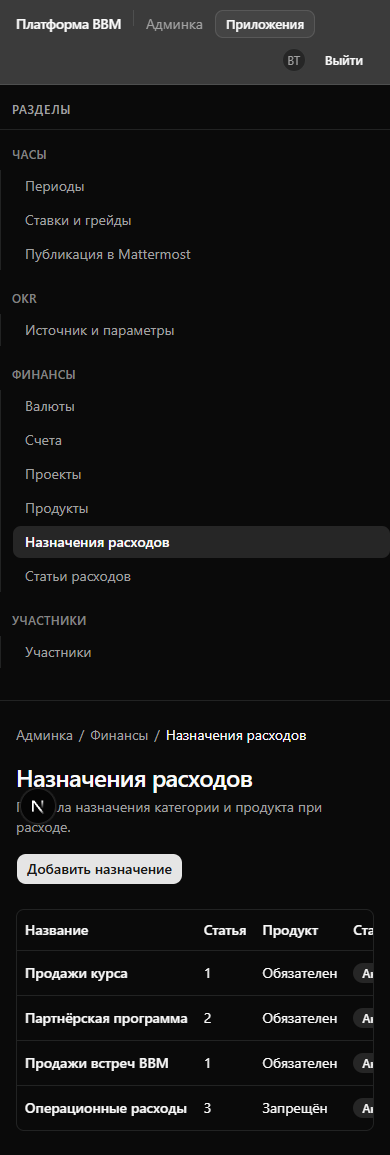
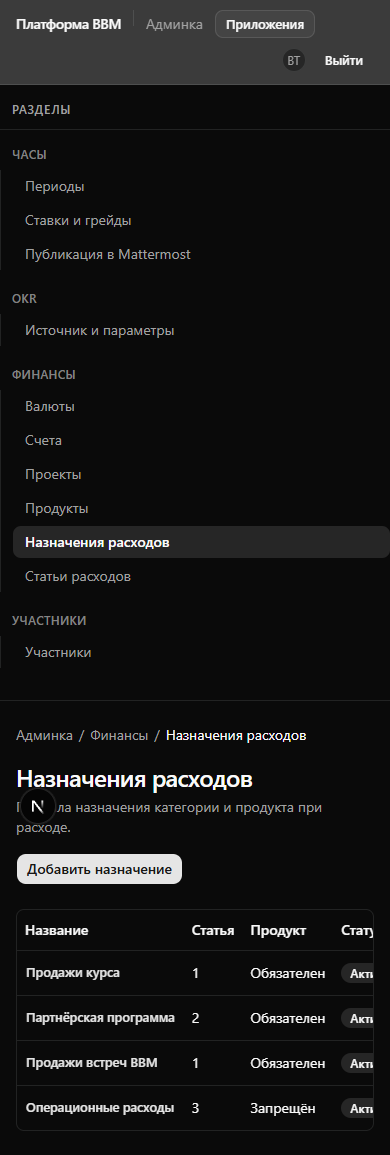
docs(evidence): #479 re-take the register and card frames at wave head baf2c5cf
dd29e1df gives each reference row one entry point — its name as a link button —
so the register frames (02), the card frames (03/04) and the CTA pseudo-state
frames (07, which are viewport frames of the register) are re-taken in place.
A new step 08 captures the row name link's three forced states, since it is now
the only way into a record. The README records one honest qualification: at rest
the name reads as a link by weight and cursor alone, and underlines only on
hover and focus-visible.

Claude-Session: https://claude.ai/code/session_0135iGP5tT2kkPaiEPUVqe6e

Changed region(s): [[0.0615, 0.8416, 0.4923, 0.9662], [0.6462, 0.7792, 0.9538, 0.9662], [0.4923, 0.7792, 0.8, 0.8104]]

diff --git a/docs/evidence/479/README.md b/docs/evidence/479/README.md
@@ -25,7 +25,7 @@ three CDP-forced pseudo-states (`CSS.forcePseudoState`, one session per state).
 | 01   | `/p/admin` as `bbm-test` — the index and the sidebar list only the sections this viewer may enter (Часы, OKR, Финансы, Участники)               |
 | 02   | `/p/admin/finance/purposes` as `bbm-test` — the reference register with its per-row «Открыть / Изменить / В архив / Удалить»                    |
 | 03   | the edit card of «Продажи курса», open — name, expense category, product binding, «Изменения фиксируются с автором и временем»                  |
-| 04   | the SAME card after a real save — the name carries the edit and the Russian save notification names the row (re-taken at `4a7e6acc`, see below) |
+| 04   | the SAME card after a real save — the name carries the edit and the Russian save notification names the row (re-taken at `baf2c5cf`, see below) |
 | 05   | `/p/admin` as `bbm-member` — refused                                                                                                            |
 | 06   | `/p/admin/finance/purposes` as `bbm-member` — refused the same way, however the URL is reached                                                  |
 | 07   | «Добавить назначение», the register's primary control, under CDP-FORCED `:hover`, `:focus-visible` and `:active` plus its base                  |
@@ -67,53 +67,45 @@ artefacts, both re-observed live rather than inferred:
   the pass; the frames keep the edited value because that IS the state being
   accepted.
 
-## Re-take of 2026-09-17 — the saved state, at head `4a7e6acc`
+## Re-take of 2026-09-17 — the register and the card, at head `baf2c5cf`
 
-The UX-sanity fix round of this PR (`5139e949` RED, `f865e40f` GREEN) replaced
-the reference cabinet's feedback: Refine's untranslated default toast
-(«Successfully updated finance.purpose / Successful») is gone, one Russian
-notification channel serves all six finance reference tables, and the inline
-grey, input-shaped «Изменения сохранены.» box is removed from the card.
+The single-entry-point round of this PR (`271608ed` RED, `dd29e1df` GREEN) gave
+each reference row ONE way into its record — the record name as a link button —
+so the per-row «Открыть» and «Изменить» buttons are gone from «Действия», which
+now carries «В архив» and «Удалить» only, and the card's twin «Открыть карточку»
+became «К списку».
 
-**Re-taken IN PLACE** (same filenames, no `-v2`) — only the four frames whose
-picture the round changed:
+**Re-taken IN PLACE** (same filenames, no `-v2`), every frame whose picture the
+round changed:
 
-- `04-admin-purposes-edit-saved-desktop-light.png`
-- `04-admin-purposes-edit-saved-desktop-dark.png`
-- `04-admin-purposes-edit-saved-mobile-light.png`
-- `04-admin-purposes-edit-saved-mobile-dark.png`
+- `02-admin-purposes-table-*` (4) — the register itself;
+- `03-admin-purposes-edit-form-*` (4) and `04-admin-purposes-edit-saved-*` (4) —
+  the card, for «К списку»;
+- `07-cta-add-purpose-*` (8) — viewport frames of the register, so they carried
+  the old action column too.
 
-Nothing else was re-taken, and the folder was checked for the stale box before
-deciding: steps 01, 02 and 07 are list/index screens that no save has touched,
-step 03 is the card BEFORE the save (it never carried the box), steps 05 and 06
-are the bare 403. The card's own primary control «Сохранить изменения» keeps its
-kit treatment — no control gained or lost a variant — so no pseudo-state frame
-changed either.
+Unchanged and therefore not re-taken: `01` (the cabinet index), `05` and `06`
+(the bare 403).
 
-**Confirmed on sight in all four frames:** the notification reads Russian product
-copy and names the row it saved — «Назначение расхода сохранено.» over «Продажи
-курса» — no grey input-shaped notice remains between «Изменения фиксируются с
-автором и временем.» and «Название», and the rest of the card (name, expense
-category, product binding, the CTA) is unchanged.
+**New: `08-row-name-link-*` (8).** The register's PRIMARY control is still
+«Добавить назначение» (step 07), but the row name is now the only entry point
+into a record, so its three forced states join the matrix — one
+`CSS.forcePseudoState` CDP session per state, resolved in two hops
+(`table tbody tr` → the row's link button), desktop × light/dark.
 
-**The other five tables were driven the same way** in the same session, to check
-the round really is one channel and not one screen — each edited and restored:
+**Confirmed on sight.** No «Открыть» and no «Изменить» anywhere in the register;
+«Действия» holds «В архив» and «Удалить»; the card's top-right control reads «К
+списку»; the save notification and the absence of the grey notice from the
+previous rounds are unaffected. Nothing else regressed.
 
-| Table           | Notification                                      |
-| --------------- | ------------------------------------------------- |
-| Счета           | «Счёт сохранён. / Основной банк»                  |
-| Проекты         | «Проект сохранён. / Фонд BBM»                     |
-| Продукты        | «Продукт сохранён. / Курс «Основы нутрициологии»» |
-| Валюты          | «Валюта сохранена. / Российский рубль»            |
-| Статьи расходов | «Статья расходов сохранена. / Маркетинг»          |
-
-**The rename anomaly of the previous take is FIXED and the frames prove it.**
-At head `a3ca818e` the notification quoted the row as it was LOADED, so a rename
-made its second line disagree with the field above it. `5c43be64` makes it quote
-the SAVED record: every one of the four frames now reads the same string in the
-«Название» field and in the notification — «Продажи курса (правка
-desktop/light)» in the desktop-light frame, «…(правка mobile/dark)» in the
-mobile-dark one, which was the frame that exposed the defect.
+**One honest qualification about «visibly a link».** AT REST the row name is not
+a link by colour or underline — it is the kit's `variant="link"` button rendered
+in the text colour, distinguished from a plain cell only by weight (500 vs 400)
+and by `cursor: pointer`; `text-decoration` computes to `none`. The link
+affordance appears on `:hover` and `:focus-visible`, where it underlines — which
+is exactly what the new step-08 frames show. That is the kit's own link variant
+behaving as the kit defines it, not a defect introduced here, but a reader
+scanning the register statically has only the weight to go on.
 
 **Rows restored.** Every name edited for this re-take was written back: «Продажи
 курса», «Основной банк», «Фонд BBM», «Курс «Основы нутрициологии»», «Российский
